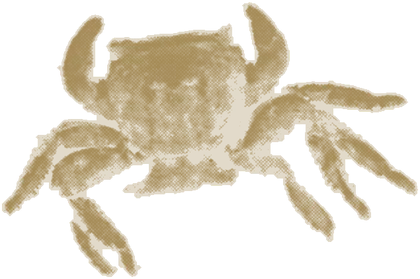
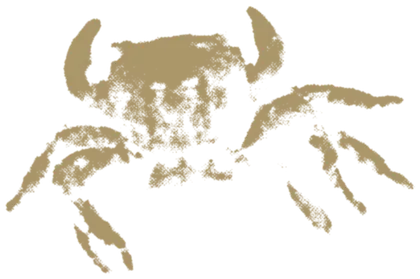
palms for shcaa; eight crabs; each page its own sea
Shcaa — Palms
- A second fragment sphere for the Shcaa page: Palms, cut from the tropical plants and plant shadows in the negatives, finished with the Mare Latens pipeline (stamp, desquare, ink; inks from the site palette, greens and earths for the plants and their shadows).
- Second run of the originals: 228 cut, 204 above the export floor, 147 kept after dropping the dot fields — fronds, fans, pinnate lattices, grass strokes. In assets/palms with their manifest, about 2 MB, a visit loads about twenty.
- The layer picks its pool from a data-sphere attribute on the #mare div; Shcaa says palms, every other page keeps the sea.

Shcaa — crabs
- Eight crabs cut from the MUSEUM plate, all with their limbs, one ochre ink, the seahorse's finish (flat, dusty, holed at the rim, halftone underneath), shown at the seahorse's opacity.
- Dealt eight times around the last paragraph of the bio: a cluster in the band below it, two at the paragraph's mid-height in the margins, one bridging; nothing above the title. Phones: four in the band.
- Two cleaned by hand: neighbours' claws and shells blanked, a softer bite; one completed from its own left where the plate hides its right side. The right-margin crab moved 30 px closer to the text.

Header, moon, pages
- The motto "Vestigia Sonora Memoriae Latentes" leaves the header on every page.
- The moon goes straight to its angle on the header and the almanac; no rotation animation.
[…]

Changed region(s): [[0.0, 0.0, 1.0, 1.0], [0.1548, 0.1147, 0.1857, 0.2007]]

diff --git a/style.css b/style.css
@@ -214,7 +214,7 @@ a:hover { color: hsl(var(--iron-oxide)); }
 .site-header { position: relative; }
 .crescent-link { position: absolute; top: 10px; right: 12px; width: clamp(83px, 11.9vw, 166px); display: block; opacity: 0.55; z-index: 1; }
 .crescent-link:hover { opacity: 0.85; }
-.crescent-moon { display: block; width: 100%; height: auto; opacity: 0; transition: opacity 0.8s ease, transform 1.2s ease; }
+.crescent-moon { display: block; width: 100%; height: auto; opacity: 0; transition: opacity 0.8s ease; }
 .crescent-moon.risen { opacity: 1; }
 @media (max-width: 767px) { .crescent-link { top: 6px; right: 6px; width: 60px; } }
 
@@ -428,23 +428,24 @@ footer h3 { font-size: 1.25rem; }
 .bandcamp-embed iframe { width: 100%; max-width: 350px; border: 0; }
 
 /* ===== Crabs (Shcaa bio) ===== */
-/* Eight crabs cut whole from the plate, in the traces' ink. They keep to the room
-   below the bio (`.crab-band`) and just surround its last paragraph: a tight
-   cluster in the band, two at the paragraph's middle in the margins, one
-   bridging. Nothing above the title. `.crab-field` is the bio <section>. */
+/* Six crabs cut from the plate, every limb intact, in the traces' ink with the
+   seahorse's dusty finish, dealt eight times, upright, some mirrored. They keep to the room below the bio
+   (`.crab-band`) and just surround its last paragraph: a cluster in the band, two
+   at the paragraph's middle in the margins, one bridging. Nothing above the
+   title. `.crab-field` is the bio <section>. */
 .crab-field { position: relative; }
-.crab { position: absolute; pointer-events: none; height: auto; opacity: .85; margin: 0 !important; }
+.crab { position: absolute; pointer-events: none; height: auto; opacity: .6; margin: 0 !important; }
 .crab-band { height: 200px; margin-top: 0 !important; }
 .crab-1 { bottom: 26px;  left: 5%;     width: 146px; transform: rotate(-4deg); }
-.crab-2 { bottom: 82px;  left: 22%;    width: 126px; transform: rotate(6deg); }
-.crab-3 { bottom: 18px;  left: 40%;    width: 150px; transform: rotate(-3deg); }
-.crab-4 { bottom: 86px;  left: 58%;    width: 130px; transform: rotate(4deg); }
-.crab-5 { bottom: 22px;  right: 3%;    width: 150px; transform: rotate(-5deg); }
-.crab-6 { bottom: 196px; right: -148px; width: 148px; transform: rotate(6deg); }
-.crab-7 { bottom: 198px; left: -122px; width: 118px; transform: rotate(-5deg); }
-.crab-8 { bottom: 104px; left: -120px; width: 132px; transform: rotate(7deg); }
+.crab-2 { bottom: 84px;  left: 22%;    width: 124px; transform: rotate(3deg) scaleX(-1); }
+.crab-3 { bottom: 18px;  left: 40%;    width: 150px; transform: rotate(-2deg); }
+.crab-4 { bottom: 88px;  left: 58%;    width: 122px; transform: rotate(4deg) scaleX(-1); }
+.crab-5 { bottom: 22px;  right: 3%;    width: 142px; transform: rotate(-5deg); }
+.crab-6 { bottom: 196px; right: -118px; width: 148px; transform: rotate(5deg) scaleX(-1); }
+.crab-7 { bottom: 200px; left: -120px; width: 110px; transform: rotate(-5deg); }
+.crab-8 { bottom: 106px; left: -118px; width: 118px; transform: rotate(6deg) scaleX(-1); }
 @media (max-width: 1023px) {
-  .crab-6 { right: -108px; width: 112px; } .crab-7 { left: -96px; width: 96px; } .crab-8 { left: -88px; width: 100px; }
+  .crab-6 { right: -86px; width: 112px; } .crab-7 { left: -92px; width: 90px; } .crab-8 { left: -86px; width: 92px; }
 }
 @media (max-width: 767px) {
   .crab-band { height: 120px; }

diff --git a/shcaa.html b/shcaa.html
@@ -23,7 +23,7 @@
 </head>
 <body>
   <div class="min-screen bg-background text-foreground">
-    <div id="mare" aria-hidden="true"></div>
+    <div id="mare" data-sphere="palms" aria-hidden="true"></div>
     <header class="site-header">
       <div class="topline">
         <nav class="main-menu" aria-label="Primary">
@@ -39,7 +39,6 @@
           <img width="469" height="696" src="assets/placidum-logo-pale.png" alt="Placidum Logo" class="logo-img">
           <div class="logo-text-wrap">
             <img width="1469" height="254" src="assets/placidum-wordmark.png" alt="PLACIDUM" class="logo-wordmark-img">
-            <div class="logo-motto font-garamond"><em>Vestigia Sonora Memoriae Latentes</em></div>
             
             
           </div>
@@ -52,14 +51,14 @@
 
         <!-- Bio -->
         <section class="space-y-6 crab-field">
-          <img src="assets/crabs/crab-1.webp" alt="" aria-hidden="true" class="crab crab-1" width="420" height="279">
-          <img src="assets/crabs/crab-2.webp" alt="" aria-hidden="true" class="crab crab-2" width="420" height="327">
-          <img src="assets/crabs/crab-3.webp" alt="" aria-hidden="true" class="crab crab-3" width="420" height="217">
-          <img src="assets/crabs/crab-4.webp" alt="" aria-hidden="true" class="crab crab-4" width="420" height="312">
-          <img src="assets/crabs/crab-5.webp" alt="" aria-hidden="true" class="crab crab-5" width="420" height="280">
-          <img src="assets/crabs/crab-6.webp" alt="" aria-hidden="true" class="crab crab-6" width="420" height="276">
-          <img src="assets/crabs/crab-7.webp" alt="" aria-hidden="true" class="crab crab-7" width="420" height="233">
-          <img src="assets/crabs/crab-8.webp" alt="" aria-hidden="true" class="crab crab-8" width="420" height="232">
+          <img src="assets/crabs/crab-7.webp" alt="" aria-hidden="true" class="crab crab-1" width="420" height="294">
+          <img src="assets/crabs/crab-4.webp" alt="" aria-hidden="true" class="crab crab-2" width="420" height="280">
+          <img src="assets/crabs/crab-3.webp" alt="" aria-hidden="true" class="crab crab-3" width="420" height="232">
+          <img src="assets/crabs/crab-1.webp" alt="" aria-hidden="true" class="crab crab-4" width="420" height="279">
+          <img src="assets/crabs/crab-5.webp" alt="" aria-hidden="true" class="crab crab-5" width="420" height="276">
+          <img src="assets/crabs/crab-8.webp" alt="" aria-hidden="true" class="crab crab-6" width="420" height="162">
+          <img src="assets/crabs/crab-1.webp" alt="" aria-hidden="true" class="crab crab-7" width="420" height="279">
+          <img src="assets/crabs/crab-6.webp" alt="" aria-hidden="true" class="crab crab-8" width="420" height="233">
           <h1 class="text-2xl font-garamond font-normal mb-8 text-left codex-title uppercase">SHCAA</h1>
           <div class="space-y-4 text-foreground leading-loose text-lg">
             <p><strong class="font-semibold">Sacha Alexandre Khalifé aka Shcaa</strong> is a French-Lebanese artist and composer based in Paris. He works with guitar, fragments of environmental recordings and digital processing.</p>

diff --git a/site.js b/site.js
@@ -255,7 +255,8 @@
   // Nothing here is required by the page: without JS the layer does not exist.
   var mare = document.getElementById('mare');
   if (mare && 'IntersectionObserver' in window && 'fetch' in window) {
-    var ML_BASE = 'assets/mare-latens/';
+    // the sphere: which pool of traces the page draws from (assets/<sphere>/ + fragments.json)
+    var ML_BASE = 'assets/' + (mare.getAttribute('data-sphere') || 'mare-latens') + '/';
     var mlDesktopMQ = window.matchMedia('(min-width: 768px)');
     var mlManifest = null, mlFrags = [], mlMode = null, mlT = null;
 
@@ -341,7 +342,18 @@
 
     function mlDeal() {
       mare.innerHTML = ''; mlFrags = [];
-      var manifest = mlManifest, deck = [], i, j, tmp, r = mlRng(1789), dealt = 0, mobile = mlMobile();
+      // The day is Pantelleria's day (Europe/Rome): the sea turns with the same
+      // tide for every visitor, wherever they read from.
+      var tide;
+      try { tide = new Intl.DateTimeFormat('en-CA', { timeZone: 'Europe/Rome', year: 'numeric', month: '2-digit', day: '2-digit' }).format(new Date()); }
+      catch (e) { var d = new Date(); tide = d.getFullYear() + '-' + (d.getMonth() + 1) + '-' + d.getDate(); }
+      // Notes deals one fixed deck from the oldest entry upward (growth-stable).
+      // Every other page draws its own hand from the pool each day: the deck is
+      // shuffled by page and tide, so premises, corpus and chronicles never
+      // share a sea, and each gets a new one at midnight.
+      var notes = !!document.querySelector('.note-entry');
+      var page = (location.pathname.split('/').pop() || 'index.html');
+      var manifest = mlManifest, deck = [], i, j, tmp, r = mlRng(notes ? 1789 : mlHash(page + '|' + tide)), dealt = 0, mobile = mlMobile();
       for (i = 0; i < manifest.length; i++) deck.push(i);
       for (i = deck.length - 1; i > 0; i--) { j = Math.floor(r() * (i + 1)); tmp = deck[i]; deck[i] = deck[j]; deck[j] = tmp; }
       function next(minAr) {                // next card with at least this aspect ratio
@@ -351,14 +363,9 @@
         }
         return manifest[deck[0]];
       }
-      // The tide: geometry (side jitter, position, size) re-rolls once a day at
-      // local midnight; which fragment belongs to which entry never changes,
-      // so nothing new is downloaded when the sea moves.
-      // The day is Pantelleria's day (Europe/Rome): the sea turns with the same
-      // tide for every visitor, wherever they read from.
-      var tide;
-      try { tide = new Intl.DateTimeFormat('en-CA', { timeZone: 'Europe/Rome', year: 'numeric', month: '2-digit', day: '2-digit' }).format(new Date()); }
-      catch (e) { var d = new Date(); tide = d.getFullYear() + '-' + (d.getMonth() + 1) + '-' + d.getDate(); }
+      // The tide: geometry (side jitter, position, size) re-rolls once a day;
+      // on Notes which fragment belongs to which entry never changes, so
+      // nothing new is downloaded when the sea moves.
       mlAnchors().forEach(function (a, idx) {
         var rng = mlRng(mlHash(a.key)), tideRng = mlRng(mlHash(a.key + '|' + tide)), n = 1;
         if (!mobile) {

diff --git a/chronicles.html b/chronicles.html
@@ -40,7 +40,6 @@
           <img width="469" height="696" src="assets/placidum-logo-pale.png" alt="Placidum Logo" class="logo-img">
           <div class="logo-text-wrap">
             <img width="1469" height="254" src="assets/placidum-wordmark.png" alt="PLACIDUM" class="logo-wordmark-img">
-            <div class="logo-motto font-garamond"><em>Vestigia Sonora Memoriae Latentes</em></div>
             
             
           </div>
@@ -60,7 +59,7 @@
           <div class="chronicle-layout">
             <div class="chronicle-artwork">
               <div class="artwork-square">
-                <img loading="lazy" decoding="async" width="1017" height="1600" src="assets/Chapter_I_Klee.jpg" alt="A Silent Spectator episode artwork">
+                <img loading="lazy" decoding="async" width="1017" height="1600" src="assets/chronicles/Chapter_I_Klee.jpg" alt="A Silent Spectator episode artwork">
               </div>
               <div class="space-y-4">
                 <p class="text-xs font-mono text-muted-foreground uppercase" style="letter-spacing:0.05em">Ad Parnassum</p>
@@ -98,7 +97,7 @@
           <div class="chronicle-layout">
             <div class="chronicle-artwork">
               <div class="artwork-square">
-                <img loading="lazy" decoding="async" width="1441" height="1600" src="assets/Preface_Duchamp.jpg" alt="Preface episode artwork">
+                <img loading="lazy" decoding="async" width="1441" height="1600" src="assets/chronicles/Preface_Duchamp.jpg" alt="Preface episode artwork">
               </div>
               <div class="space-y-4">
                 <p class="text-xs font-mono text-muted-foreground uppercase" style="letter-spacing:0.05em">The Passage from Virgin to Bride</p>

diff --git a/almanac.html b/almanac.html
@@ -27,7 +27,7 @@
     h2 { font-variant: small-caps; letter-spacing: .16em; font-weight: 400; font-size: .85rem; color: var(--gold); margin: 56px 0 18px; border-top: 1px solid var(--rule); padding-top: 18px; }
     h2 span { color: var(--dim); letter-spacing: .06em; font-variant: normal; font-style: italic; margin-left: .6em; }
     .hac-nocte { display: grid; grid-template-columns: minmax(220px, 340px) 1fr; gap: 40px; align-items: center; }
-    #moon-seal { width: 100%; height: auto; opacity: .55; transition: transform 1.2s ease; }
+    #moon-seal { width: 100%; height: auto; opacity: .55; }
     .big { font-family: 'Cormorant Garamond', serif; font-weight: 300; font-size: 1.9rem; font-variant: small-caps; letter-spacing: .06em; color: var(--gold); margin: 0 0 12px; }
     dl { display: grid; grid-template-columns: max-content 1fr; gap: 6px 22px; margin: 0; }
     dt { color: var(--dim); font-variant: small-caps; letter-spacing: .08em; font-size: .85rem; }

diff --git a/404.html b/404.html
@@ -35,7 +35,6 @@
           <img width="469" height="696" src="assets/placidum-logo-pale.png" alt="Placidum Logo" class="logo-img">
           <div class="logo-text-wrap">
             <img width="1469" height="254" src="assets/placidum-wordmark.png" alt="PLACIDUM" class="logo-wordmark-img">
-            <div class="logo-motto font-garamond"><em>Vestigia Sonora Memoriae Latentes</em></div>
             
             
           </div>

diff --git a/corpus.html b/corpus.html
@@ -40,7 +40,6 @@
           <img width="469" height="696" src="assets/placidum-logo-pale.png" alt="Placidum Logo" class="logo-img">
           <div class="logo-text-wrap">
             <img width="1469" height="254" src="assets/placidum-wordmark.png" alt="PLACIDUM" class="logo-wordmark-img">
-            <div class="logo-motto font-garamond"><em>Vestigia Sonora Memoriae Latentes</em></div>
             
             
           </div>

diff --git a/index.html b/index.html
@@ -78,7 +78,6 @@
           <img width="469" height="696" src="assets/placidum-logo-pale.png" alt="Placidum Logo" class="logo-img">
           <div class="logo-text-wrap">
             <img width="1469" height="254" src="assets/placidum-wordmark.png" alt="PLACIDUM" class="logo-wordmark-img">
-            <div class="logo-motto font-garamond"><em>Vestigia Sonora Memoriae Latentes</em></div>
             
             
           </div>

diff --git a/premises.html b/premises.html
@@ -41,7 +41,6 @@
           <img width="469" height="696" src="assets/placidum-logo-pale.png" alt="Placidum Logo" class="logo-img">
           <div class="logo-text-wrap">
             <img width="1469" height="254" src="assets/placidum-wordmark.png" alt="PLACIDUM" class="logo-wordmark-img">
-            <div class="logo-motto font-garamond"><em>Vestigia Sonora Memoriae Latentes</em></div>
             
             
           </div>
